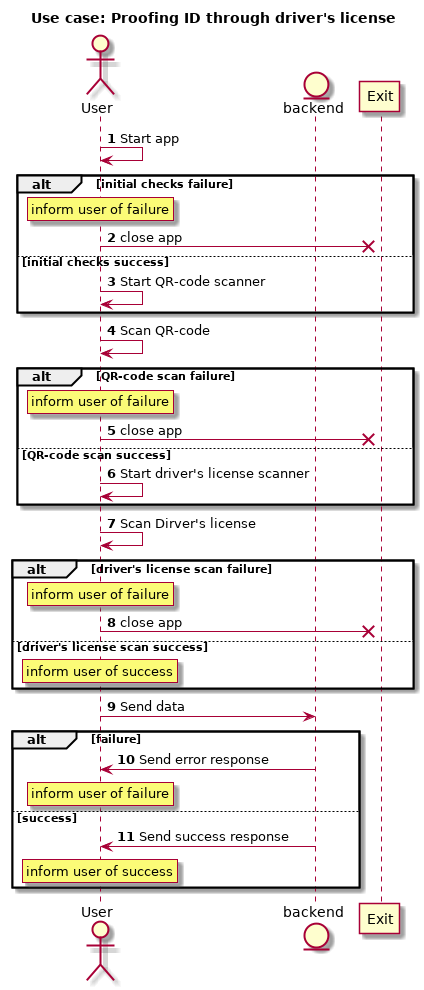
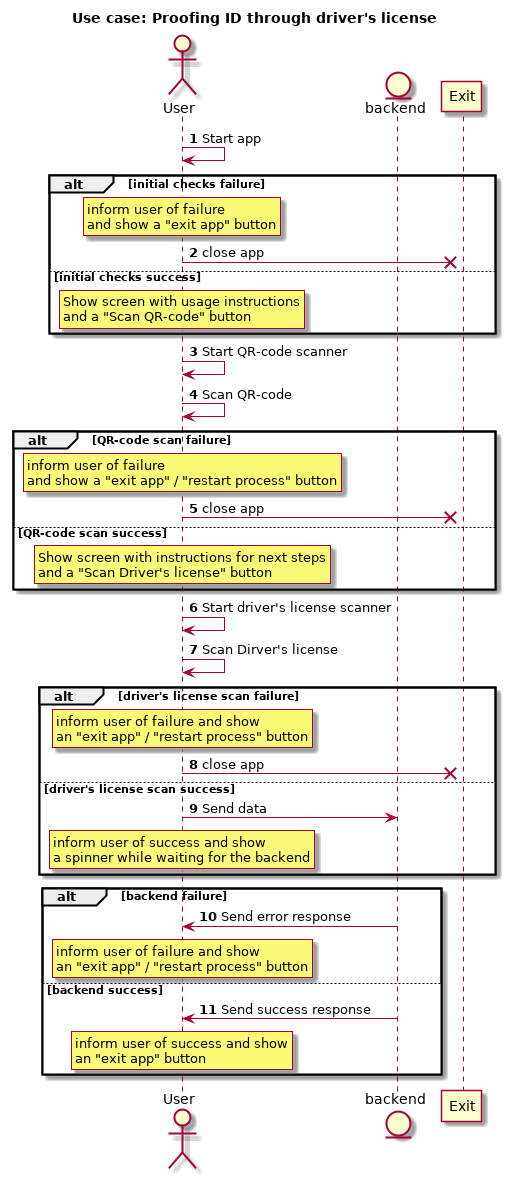
update use case

diff --git a/doc/feb-use-case.md b/doc/feb-use-case.md
@@ -15,22 +15,23 @@ From the perspective of the mobile app, without distinguishing different parts i
 ## User stories
 
 1. As a user, I want to start the app, so that initialization checks all conditions needed for the app to work
-2. Initialization failure
-  * 2a. As a user, when some necessary initial condition is irrecoverably absent, I want to be shown information about it, and a button to exit the app, so that I can use other means to fix the problem.
-  * 2b. As a user, when some necessary initial condition is recoverably absent, I want to be shown information about it, and a button to restart the initialization, so that I can fix the problem and restart the process.
-3. Initialization success
-  * 3a. As a user, when all initial conditions are given, I want the app to start the QR-code scanner, so that I can feed it the QR-code I had in my possesion.
+2. Initialization result
+  * 2a. Failure. As a user, when some necessary initial condition is absent, I want to be shown information about it, and a button to exit the app, so that I can use other means to fix the problem and then restart the app.
+  * 2b. Success. As a user, when all initial conditions are satisfied, I want the app to inform me of the next steps to follow, and to offer me a button to follow them (start the QR-code scanner).
+3. As a user, when I click on the "Scan QR-code" button, I  want the scanner to start, so that I can feed it the QR-code I had in my possesion.
 4. As a user, I want to scan my QR-code, so that the app gathers the needed information about my account.
-5. QR-code scan failure
-  * 5a  & 5b like 2a & 2b
-6. QR-code scan success
-  * 6a. As a user, when the QR-scan has been successful, I want the app to start the driver's license scanner, so I can feed it my driver's license.
+5. QR-code scan result
+  * 5a. Irrecoverable failure. As a user, when some necessary condition is irrecoverably absent, I want to be shown information about it, and a button to exit the app, so that I can use other means to fix the problem.
+  * 5b. Recoverable failure. As a user, when some necessary condition is recoverably absent, I want to be shown information about it, and a button to restart the scan, so that I can fix the problem and rescan the QR-code.
+  * 5c. Success. As a user, when the QR-code scan has been successful, I want to be informed of it, and be informed of the next step, and be offered a button to start the next step (scan driver's license).
+6. As a user, when I  have clicked the "scan driver's license" button, I want the app to start the driver's license scanner, so I can feed it my driver's license.
 7. As a user, I want to scan my driver's license, so that the app gathers enough information to identify me.
 8. Driver's license scan failure
-  * 8a  & 8b like 2a & 2b
-  * 8c. As a user, when the scan is successful, I want to be informed of such.
-9. As a user, when the app has my identification data and my account data, I want it to send that information to the backend, so that my account may be vetted.
-10. Vetting fails
-  * 10a & 10b as 2a & 2b
-11. As a user, when the vetting process finishes successfully, I want to be informed of it.
+  * 8a  & 8b like 5a & 5b
+9. Driver's license scan success
+  * 9a. As a user, when the driver's license scan is successful, I want to be informed of it, 
+  * 9b. As a user, when the app has my identification data and my account data, I want it to send that information to the backend, so that my account may be vetted, and I want to be informed (a spinner) that I have to wait for the response..
+10. Proofing fails
+  * 10a & 10b as 5a & 5b
+11. As a user, when the proofing process finishes successfully, I want to be informed of it, and offered a button to exit theapp.
 
